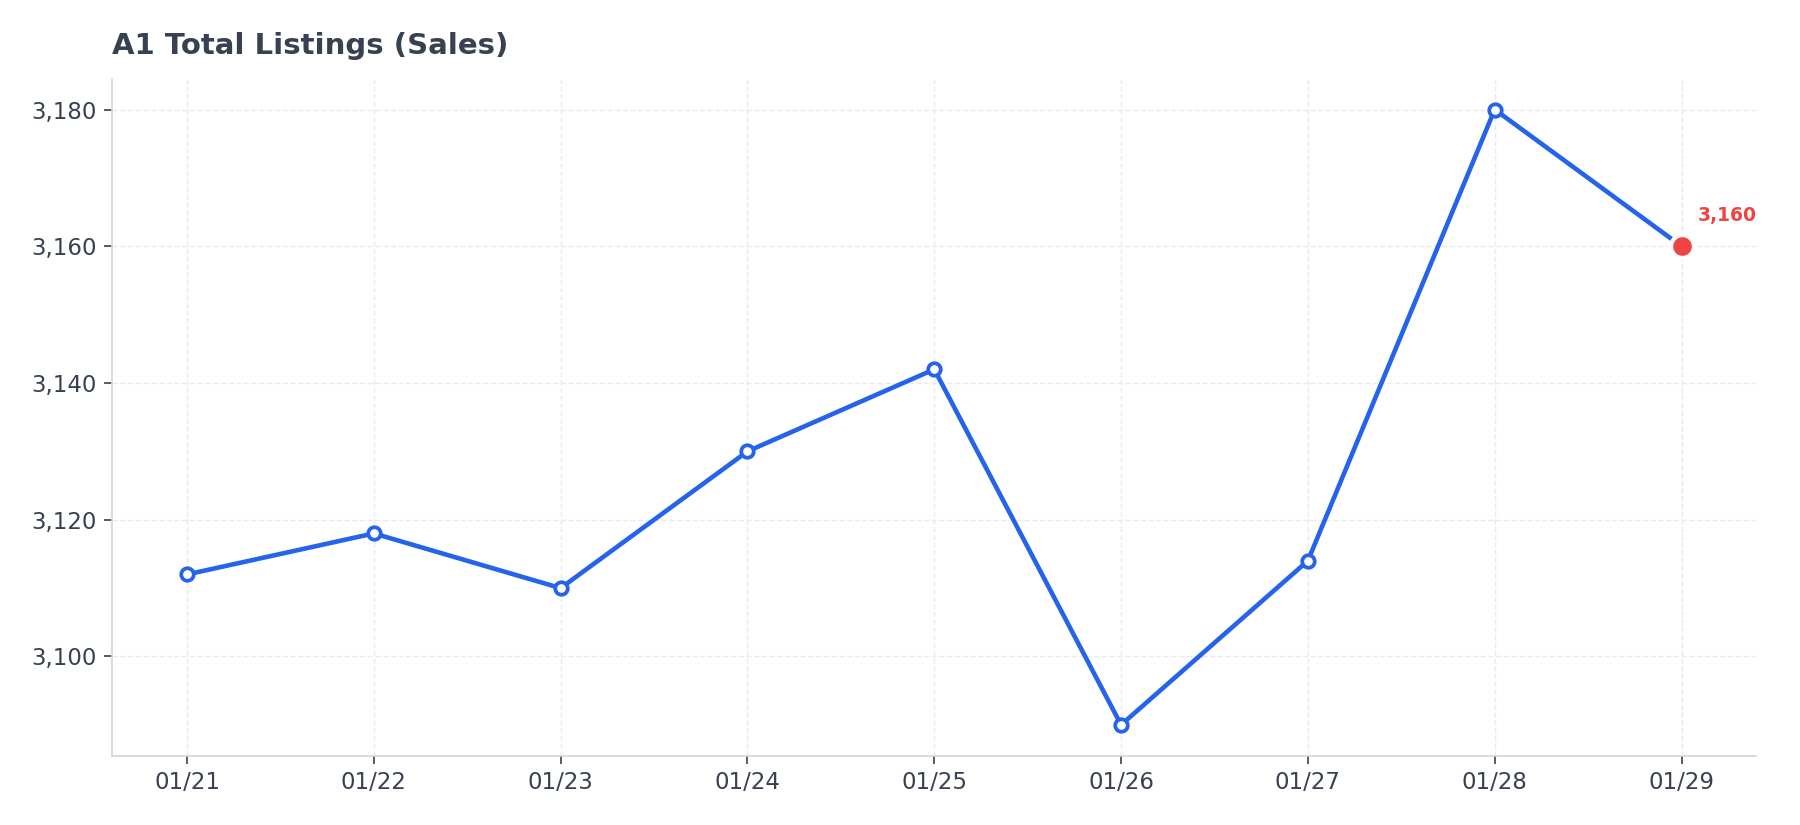
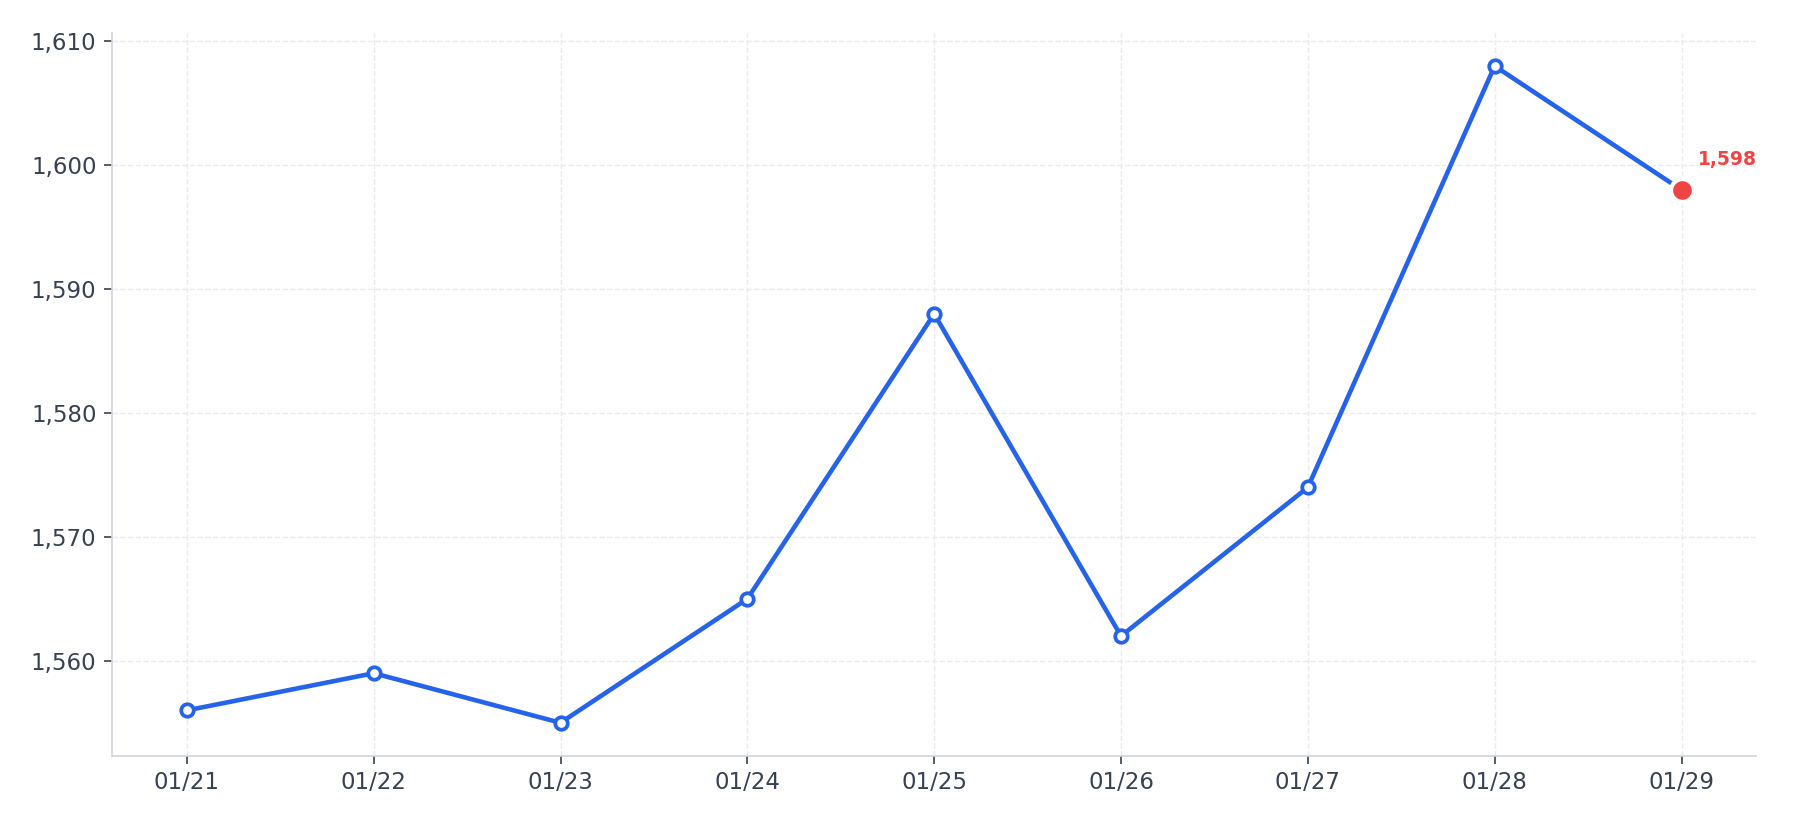
Remove chart titles and update timestamp badge
- Remove A1/B1 cnt chart titles, show ALL_BINS data only
- Remove "업데이트 일시" badge from live.html

diff --git a/reports/live.html b/reports/live.html
@@ -90,7 +90,6 @@
           <div class="pill on" id="pillA1">매매</div>
           <div class="pill" id="pillB1">전세</div>
         </div>
-        <span class="badge" id="lastLoaded">업데이트 일시 : -</span>
         <span class="badge" id="dataMTime">데이터 수정 : -</span>
       </div>
     </div>
@@ -644,18 +643,6 @@
 
   async function loadAll(){
     setSubtitle(`${state.type} 데이터를 불러오는 중...`);
-
-    // 페이지 로드 기준 업데이트 일시
-    const lastLoaded = document.getElementById("lastLoaded");
-    if (lastLoaded){
-      const now = new Date();
-      const yyyy = now.getFullYear();
-      const mm = String(now.getMonth() + 1).padStart(2, "0");
-      const dd = String(now.getDate()).padStart(2, "0");
-      const hh = String(now.getHours()).padStart(2, "0");
-      const mi = String(now.getMinutes()).padStart(2, "0");
-      lastLoaded.textContent = `업데이트 일시 : ${yyyy}-${mm}-${dd} ${hh}:${mi}`;
-    }
 
     // 차트 먼저
     await renderCharts();
